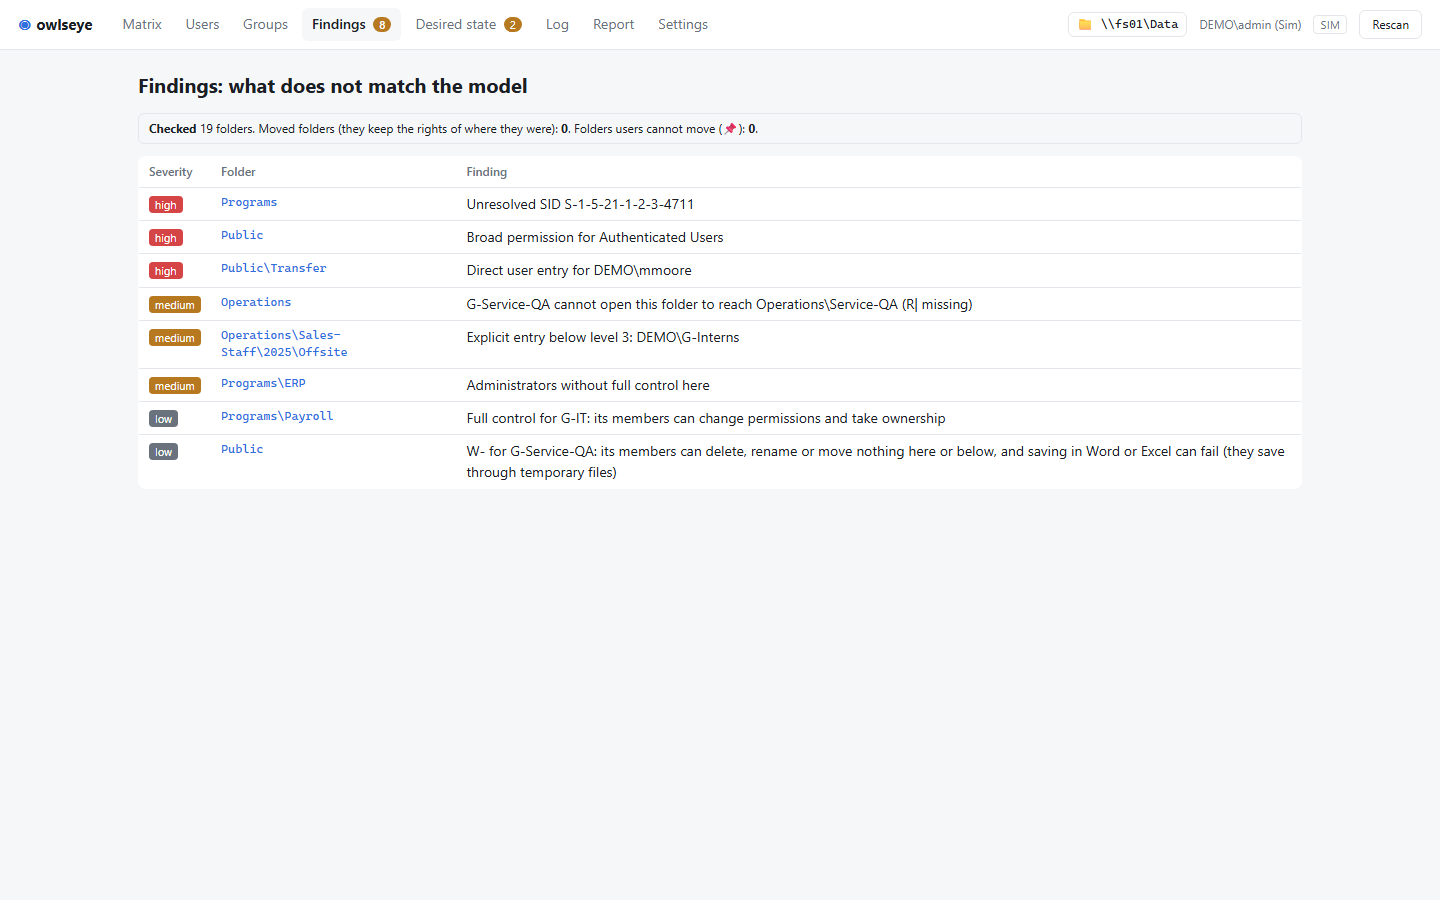
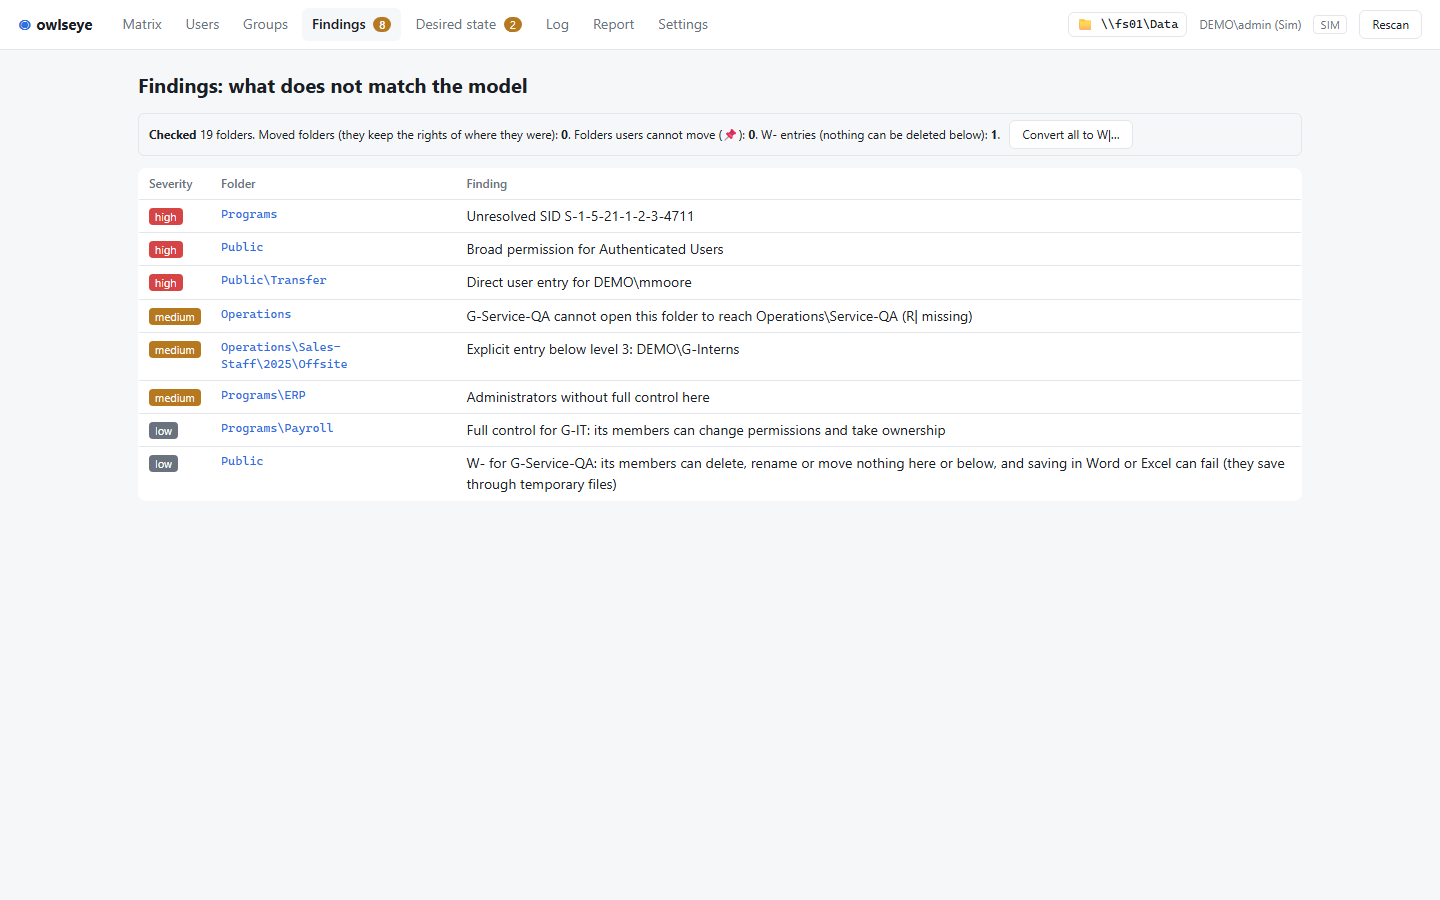
findings: change all W- to W| in one go
The findings page counts the own W- entries and offers "Convert all to W|…":
every W- becomes a pending W| (Modify on that folder only, so the group loses
write access below), and the preview shows the effect on users before
anything is written. Undo works as for any change.

diff --git a/src/Owlseye.Core/Ui/Session.cs b/src/Owlseye.Core/Ui/Session.cs
@@ -863,7 +863,30 @@ public sealed partial class Session(State st)
         lock (St.Lock)
         {
             var kept = St.Snap.Folders.Values.Where(Rights.Kept).ToList();
-            return new FindingChecks(St.Snap.Folders.Count, Rights.Stale(St.Snap).Count, kept.Count, kept.Count(f => Rights.StillMovable(f).Count > 0));
+            return new FindingChecks(St.Snap.Folders.Count, Rights.Stale(St.Snap).Count, kept.Count, kept.Count(f => Rights.StillMovable(f).Count > 0),
+                OwnEntries("W-").Count);
+        }
+    }
+
+    List<(string Sid, string Path)> OwnEntries(string value) =>
+        St.Cells.Where(kv => kv.Value.Direct == value).Select(kv => kv.Key).OrderBy(k => M.Lower(k.Path), M.Ci).ToList();
+
+    /// <summary>Every own entry with the value from becomes a pending change to the value to (e.g. all W- to W|); the
+    /// preview shows what that does for users before anything is written.</summary>
+    public Outcome ConvertAll(string from, string to)
+    {
+        if (!M.Cells.Contains(from) || !M.Cells.Contains(to)) throw new UserError($"Values must be one of {string.Join(", ", M.Cells)}");
+        lock (St.Lock)
+        {
+            var add = OwnEntries(from).Where(k => !St.Pending.ContainsKey(k)).ToList();
+            if (add.Count == 0) return new Outcome("/findings", $"No {from} entries to change.");
+            foreach (var k in add) St.Pending[k] = to;
+            CheckPlan(() =>
+            {
+                foreach (var k in add) St.Pending.Remove(k);
+            });
+            St.NotifyChanged();
+            return new Outcome("/preview", $"{add.Count} {from} entr{(add.Count == 1 ? "y" : "ies")} to change to {to}: check the effect on users, then apply.");
         }
     }
 

diff --git a/tests/Owlseye.Tests/RightsConfigTests.cs b/tests/Owlseye.Tests/RightsConfigTests.cs
@@ -136,6 +136,31 @@ public sealed class RightsSettingsTests : TestBase, IDisposable
     }
 
     [Fact]
+    public void AllWMinusCanBeChangedToWListInOneGo()
+    {
+        var st = new State(new Config { Provider = "demo", Audit = Path.Combine(Tmp, "log.jsonl") }, new DemoProvider());
+        st.Load();
+        var s = new Session(st);
+        s.SetCell(Demo.Gsid("G-HR"), Staff, "W-");
+        s.SetCell(Demo.Gsid("G-IT"), "Public", "W-");
+        Assert.False(s.Apply("", s.Preview().Phash).Error);
+        Assert.Equal(2, s.FindingsChecks().WMinus);
+
+        Assert.Equal("/preview", s.ConvertAll("W-", "W|").Url);
+        Assert.Equal(2, st.PendingCount);
+        var op = s.Preview().Plan!.AclOps.Single(o => o.Path == Staff);
+        Assert.Equal([(M.Modify, M.ThisFolder)], op.After.Where(a => a.Sid == Demo.Gsid("G-HR")).Select(a => (a.Mask, a.Flags)));
+        Assert.False(s.Apply("", s.Preview().Phash).Error);
+        Assert.Equal(0, s.FindingsChecks().WMinus);
+        Assert.Equal("W|", st.Cells[(Demo.Gsid("G-HR"), Staff)].Direct);
+        Assert.Equal("No W- entries to change.", s.ConvertAll("W-", "W|").Message);
+
+        s.Undo(st.Audit.Entries().First(e => e.Arr("acl_ops") is { Count: > 0 }).Str("id")!);
+        Assert.False(s.Apply("undo", s.Preview().Phash).Error);
+        Assert.Equal(2, s.FindingsChecks().WMinus);
+    }
+
+    [Fact]
     public void AFolderKeptFromMovingHasItsWWrittenAsTwoEntries()
     {
         var kept = M.StandardAces("W", kept: true);

diff --git a/src/Owlseye.Core/Ui/Views.cs b/src/Owlseye.Core/Ui/Views.cs
@@ -185,7 +185,8 @@ public sealed record Grant(string Name, string Right, string? Source);
 /// <summary>What owlseye checked, shown above the findings so that an empty list means something.</summary>
 /// <param name="Kept">folders users cannot delete, rename or move (Rights.Kept)</param>
 /// <param name="StillMovable">of these, the ones some W entry still lets users move (Rights.StillMovable)</param>
-public sealed record FindingChecks(int Folders, int Moved, int Kept, int StillMovable);
+/// <param name="WMinus">own W- entries (write without delete), which "Convert all to W|" changes</param>
+public sealed record FindingChecks(int Folders, int Moved, int Kept, int StillMovable, int WMinus = 0);
 
 /// <summary>An entry of a hidden account on a folder (SYSTEM, Domain Admins, …), shown in the folder panel.</summary>
 public sealed record HiddenEntry(string Name, string Right, bool Inherited);

diff --git a/docs/spec.md b/docs/spec.md
@@ -99,7 +99,7 @@ Requirement IDs: `F` functional, `S` safety, `D` data/compatibility, `N` non-fun
 | F-F1 | Rules, per folder (texts verbatim): **high** "owlseye cannot read this folder as administrator. <error>"; **medium** suspicious name (S-6) "Name has invisible, combining or mixed-script characters (lookalike?)"; **medium** "Inheritance broken below level <depth>"; **medium** "Inherited entries are not what the parent folder passes down (moved here?): re-apply inheritance in the folder panel" for moved folders (F-R13); **medium** "Creator Owner has full control: whoever creates something here gets personal full control of it, outside the groups and the matrix, and keeps it after leaving them" where the folder's own Creator Owner entries add up to full control (F-I4), and on the root also where its inherited ones do (the drive often has them); **medium** on protected folders and on the root "<accounts> without full control here" for the full-control accounts (F-R11) without full control there: Allow entries of the account with OI\|CI, not inherit-only, whose masks add up to FULL; on the root inherited entries count too, since it may inherit from the drive (short names joined with " and "); per explicit ACE of an account that is not hidden, first matching: Deny → **medium** "Deny entry for <name>"; unknown → **high** "Unresolved SID <sid>"; Everyone/Authenticated Users/BUILTIN\Users with OI or CI below the root → **high** "Broad permission for <name>"; user → **high** "Direct user entry for <name>"; below depth → **medium** "Explicit entry below level <depth>: <name>"; inherit-only without OI/CI → **low** "Entry for <name> applies to nothing". Then, for cells within the depth: **low** "Non-standard entry for <name> (shown as <value>)" for non-standard cells, otherwise **low** "Full control for <name>: its members can change permissions and take ownership" for `F`, **low** "W- for <name>: its members can delete, rename or move nothing here or below, and saving in Word or Excel can fail (they save through temporary files)" for an own `W-` that is the effective right (not again on the folders below); **medium** "<name> cannot open this folder to reach <first folder below> (R\| missing)" for unreachable cells (F-F2). |
 | F-F2 | Unreachable: for each direct cell within the depth (not for unknown accounts), every ancestor where the account is not covered (F-R10). |
 | F-F3 | Sorted by severity (high, medium, low), then path (case-insensitive), then text. Findings depend on the matrix depth and are recomputed when it changes. |
-| F-F4 | Findings page: above the table what was checked, so that an empty list means something: "Checked <n> folders.", "Moved folders (they keep the rights of where they were): <n>" (F-R13), "Folders users cannot move (📌): <n>", with ", <m> of them not completely (see below)" when some W still lets users move them (F-F5). Then the table severity / folder (link to the folder page) / text; "No findings." when empty. Badge with the count in the navigation. |
+| F-F4 | Findings page: above the table what was checked, so that an empty list means something: "Checked <n> folders.", "Moved folders (they keep the rights of where they were): <n>" (F-R13), "Folders users cannot move (📌): <n>", with ", <m> of them not completely (see below)" when some W still lets users move them (F-F5), and "W- entries (nothing can be deleted below): <n>" with "Convert all to W|…" when there are any: every own W- becomes a pending W| (Modify on that folder only, so the group loses write access below), and the preview opens ("<n> W- entries to change to W|: check the effect on users, then apply."); undo as usual. Then the table severity / folder (link to the folder page) / text; "No findings." when empty. Badge with the count in the navigation. |
 | F-F5 | On a folder users cannot move (F-I6), a W or W\| that is still the plain MODIFY entry is no special entry: it shows as W with a corner mark, gives no per-cell finding, and the cell panel says that users can still delete, rename or move the folder through it and that choosing the value again converts it. The folder gets one finding, **medium** "<accounts> can still delete, rename or move this folder: their W is the plain Modify entry (folder panel: users cannot move this folder)"; keeping the folder again converts the rest |
 
 ## 6. Matrix

diff --git a/README.md b/README.md
@@ -22,7 +22,7 @@ User → security group (e.g. universal) → folder ACL. A group may appear on a
 | --- | --- | --- |
 | `R` | Read, execute (`0x1200A9`), this folder + subfolders + files | `R` |
 | `W` | Modify (`0x1301BF`: read, execute, write and delete), this folder + subfolders + files | `W` |
-| `W-` | Read and write without delete (`0x1201BF`), this folder + subfolders + files: users add files and folders and change files, but delete, rename or move nothing below, not even their own. Word and Excel save through temporary files, so saving can fail: meant for folders things are only added to (scans, archive); a finding marks it | |
+| `W-` | Read and write without delete (`0x1201BF`), this folder + subfolders + files: users add files and folders and change files, but delete, rename or move nothing below, not even their own. Word and Excel save through temporary files, so saving can fail: meant for folders things are only added to (scans, archive); a finding marks it, and the Findings page changes all W- to W\| in one go (with a preview) | |
 | `R\|` | Read this folder only (list, to reach subfolders) | `R\|` |
 | `W\|` | The same as `W`, this folder only | `W\|` |
 | `F` | Full control (`0x1F01FF`), this folder + subfolders + files: also change permissions and take ownership; for admin and service groups (a finding marks it) | |
